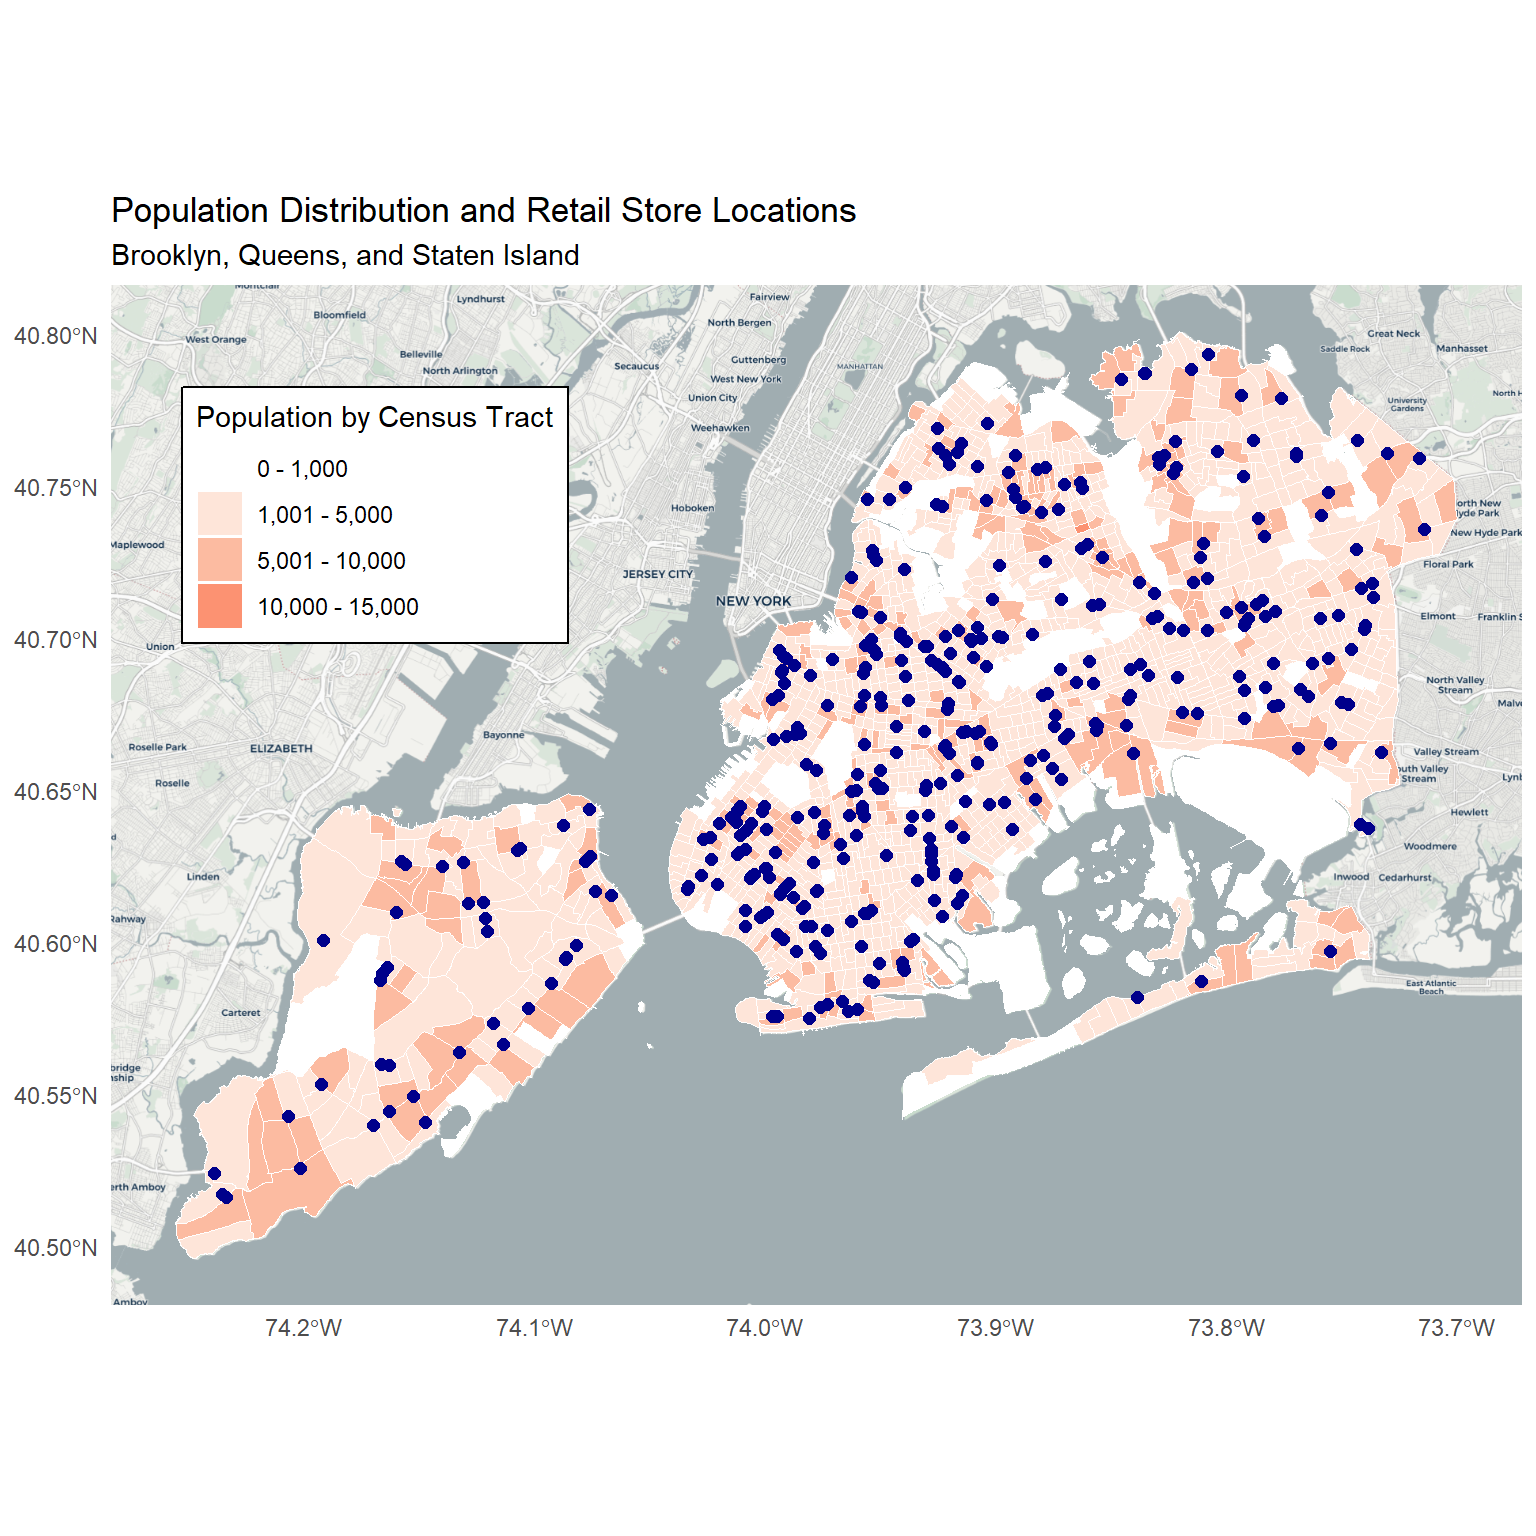
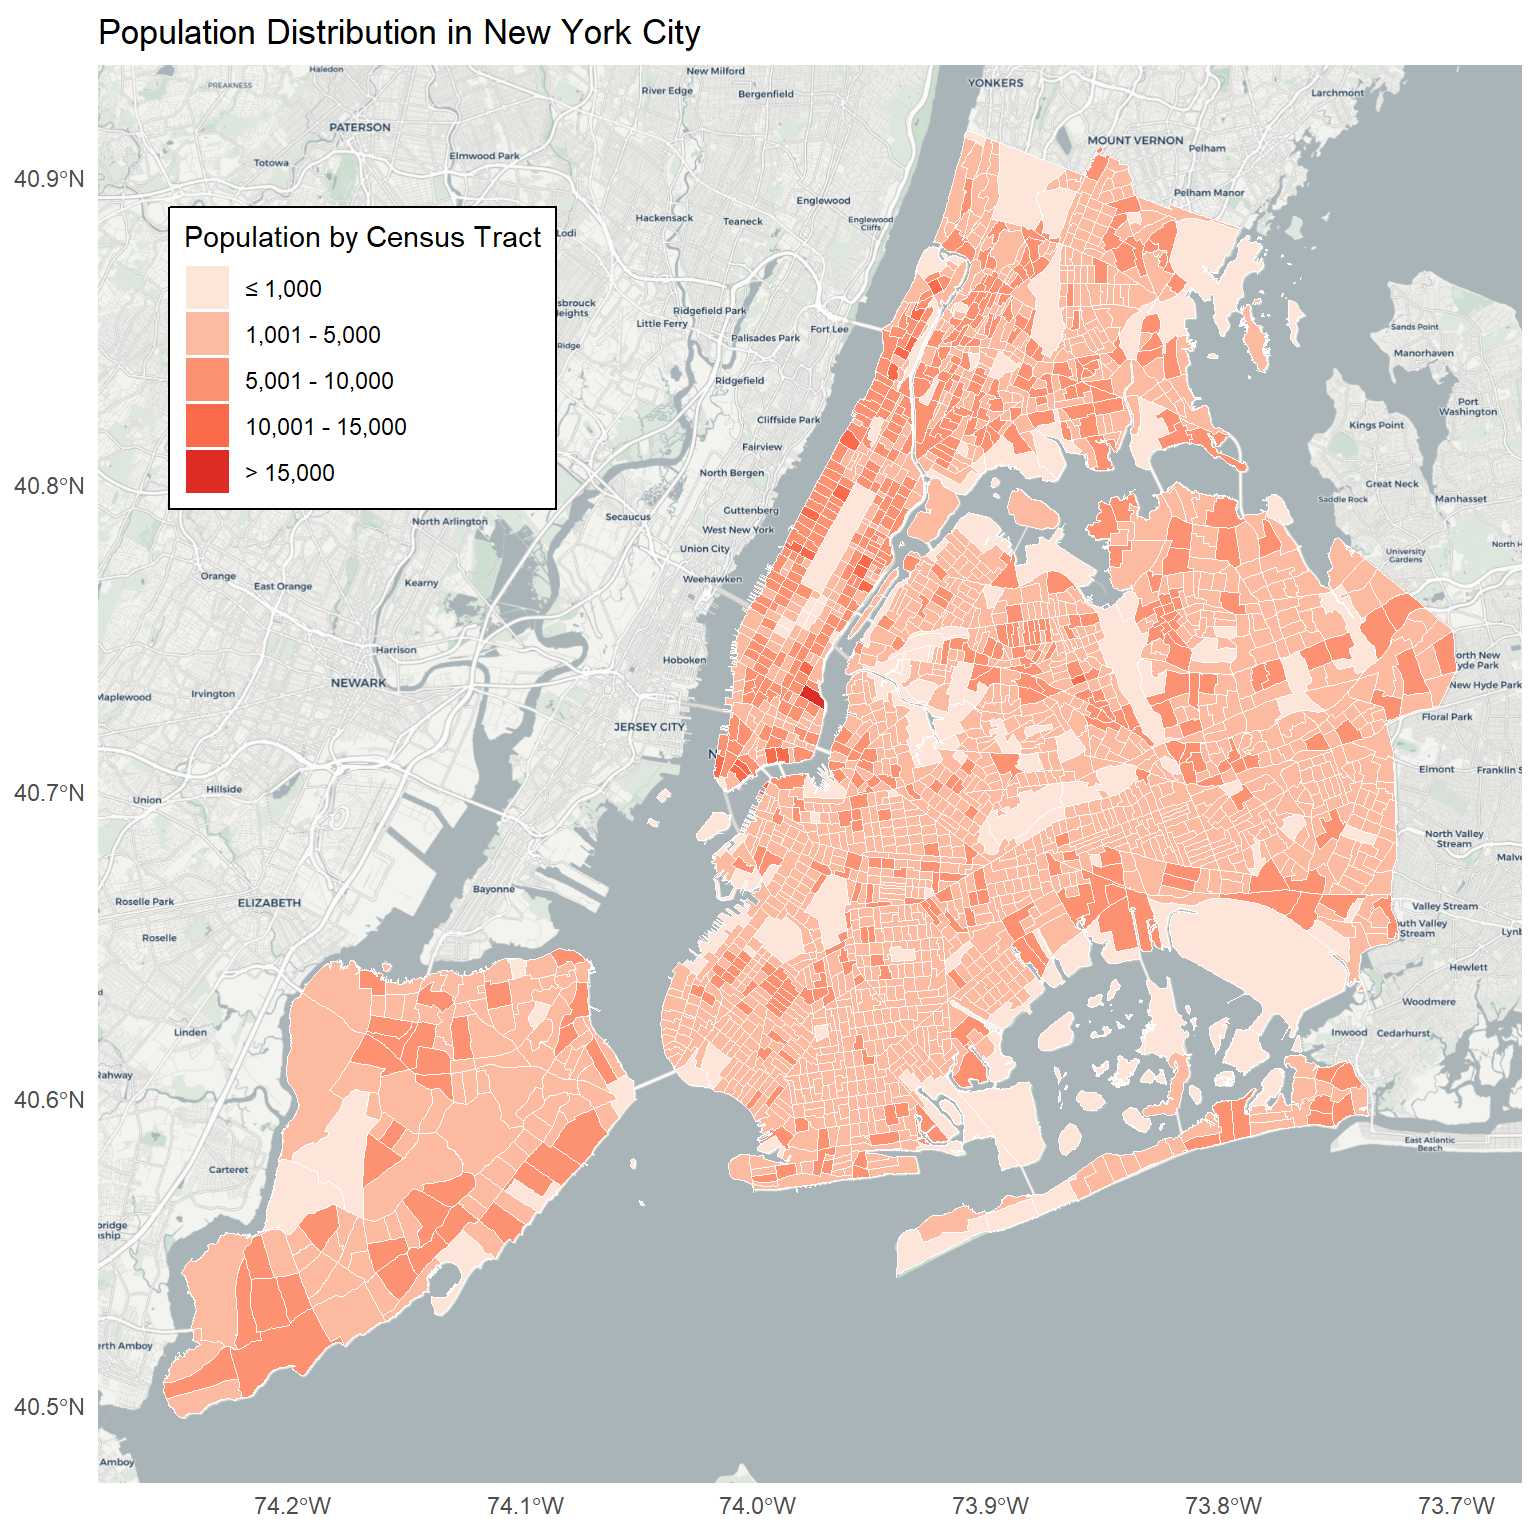
Update the report

diff --git a/report.html b/report.html
@@ -11,9 +11,9 @@
 
 
 
-<title>Report</title>
+<title>Project Report</title>
 
-<script src="site_libs/header-attrs-2.29/header-attrs.js"></script>
+<script src="site_libs/header-attrs-2.28/header-attrs.js"></script>
 <script src="site_libs/jquery-3.6.0/jquery-3.6.0.min.js"></script>
 <meta name="viewport" content="width=device-width, initial-scale=1" />
 <link href="site_libs/bootstrap-3.3.5/css/cosmo.min.css" rel="stylesheet" />
@@ -258,7 +258,7 @@ $(document).ready(function () {
   <a href="report.html">Report</a>
 </li>
 <li>
-  <a href="http://github.com/tl3279/">
+  <a href="https://github.com/tl3279/final.github.io">
     <span class="fa fa-github fa-lg"></span>
      
   </a>
@@ -280,37 +280,11 @@ $(document).ready(function () {
 
 
 
-<h1 class="title toc-ignore">Report</h1>
+<h1 class="title toc-ignore">Project Report</h1>
 
 </div>
 
 
-<pre>
-大纲    
-1. Motivation   
-  1.1 Overview of Project Goals and Motivation    
-2. Related Work   
-3. Initial Questions    
-  3.1 Questions trying to answer    
-  3.2 How did these questions evolve over the course of the project?    
-  3.3 What new questions did you consider in the course of your analysis?   
-4. Data   
-  4.1 Data Sources    
-  4.2 Scraping Method   
-  4.3 Data Cleaning Procedures    
-5. Exploratory Analysis   
-  5.1 Visualizations    
-  5.2 Summaries   
-  5.3 Exploratory Statistical Analysis    
-6. Additional Analysis    
-  6.1 Formal Analysis   
-7. Discussion   
-  7.1 Findings/Expectations/Insights..    
-</pre>
-<pre>
-留言板
-1. 这三个数据集我感觉有很多不太需要的变量要不要精简一下？
-</pre>
 <div id="motivation-and-primary-objectives" class="section level2">
 <h2>Motivation and Primary Objectives</h2>
 <p>Food access is a critical determinant of health outcomes and a driver
@@ -350,9 +324,22 @@ affordable and nutritious food within NYC.</p>
 </div>
 <div id="initial-questions" class="section level2">
 <h2>Initial Questions</h2>
+<p>Our initial questions are:<br />
+- Are there any food deserts in NYC?<br />
+- How does food access affect nutrition and health outcomes?<br />
+- What socioeconomic factors impact food access?</p>
+<p>After conducting exploratory analysis and gaining a better
+understanding of the datasets, we refined our questions as
+follows:<br />
+- Where are food deserts located in NYC, specifically at a more granular
+level?<br />
+- How does the spatial proximity to retail stores influence food access
+and availability for different communities?</p>
 </div>
 <div id="data-sources-and-cleaning" class="section level2">
 <h2>Data Sources and Cleaning</h2>
+<div id="nyc-2020-census-tract-dataset" class="section level3">
+<h3>NYC 2020 Census Tract Dataset</h3>
 <pre class="r"><code>population_data =
   read_excel(&quot;nyc2020_census_blocks.xlsx&quot;) |&gt;
   slice(-c(1:6)) |&gt;
@@ -369,9 +356,22 @@ affordable and nutritious food within NYC.</p>
     geoid = paste0(&quot;36&quot;, fips_county, tract_number)
   ) |&gt;
   group_by(geoid) |&gt;
-  summarize(total_population = sum(Pop1, na.rm = TRUE)) 
-
-nyc_tracts = 
+  summarize(total_population = sum(Pop1, na.rm = TRUE)) </code></pre>
+<p>Exported Shapefile from <a
+href="https://data.cityofnewyork.us/City-Government/2020-Census-Tracts/63ge-mke6/about_data">NYC
+Open Data</a>. This dataset includes the 2020 Census Tracts from the US
+Census for New York City. The boundary files are derived from the US
+Census Bureau’s TIGER data products and have been geographically
+modified to align with the New York City base map. The Shapefile was
+imported using <code>st_read()</code> from the <code>sf</code> package.
+Population data, aggregated at the census tract level, was joined to the
+shapefile using the common <code>geoid</code> identifier. Census tracts
+were classified into population bins based on total population for
+improved visualization.</p>
+</div>
+<div id="nyc-2020-decennial-census-data" class="section level3">
+<h3>NYC 2020 Decennial Census Data</h3>
+<pre class="r"><code>nyc_tracts = 
   st_read(
     &quot;2020 Census Tracts/geo_export_ae979acf-b46a-42af-a79f-874d7b450fc8.shp&quot;,
     quiet = TRUE)|&gt;
@@ -379,13 +379,35 @@ nyc_tracts =
   mutate(
     pop_bins = cut(
       total_population,
-      breaks = c(0, 1000, 5000, 10000, 15000, 200000),
-      labels = c(&quot;0 - 1,000&quot;, &quot;1,001 - 5,000&quot;, &quot;5,001 - 10,000&quot;, &quot;10,000 - 15,000&quot;, &quot;15,001 - 20,000&quot;),
+      breaks = c(0, 1001, 5001, 10001, 15001, Inf),
+      labels = c(&quot;≤ 1,000&quot;, &quot;1,001 - 5,000&quot;, &quot;5,001 - 10,000&quot;, &quot;10,001 - 15,000&quot;, &quot;&gt; 15,000&quot;),
       include.lowest = TRUE
     )
-  )
-
-retail_stores = 
+  ) |&gt;
+  select(boroname, total_population, geometry, pop_bins)</code></pre>
+<p>Downloaded the Excel file from <a
+href="https://www.nyc.gov/site/planning/planning-level/nyc-population/2020-census.page">2020
+Census - DCP</a> provided by the NYC Department of City Planning. This
+dataset includes basic demographic and housing characteristics, such as
+total population, race/ethnicity, age, housing tenure, and household
+composition for NYC’s census blocks.The dataset was imported using
+<code>read_excel()</code> and the first six rows, which contained
+summary population information for the five counties and NYC as a whole,
+were removed. A new variable, <code>geoid</code>, was created by
+combining borough codes and tract numbers to ensure compatibility with
+the NYC census tract dataset. Total population was aggregated across
+unique <code>geoid</code> values to calculate the total population for
+each census tract. The cleaned population dataset was then merged with
+the NYC census tract dataset using the <code>geoid</code> variable. We
+retained only the variables essential for our analysis:
+<strong><code>boroname</code></strong>,
+<strong><code>total_population</code></strong>,
+<strong><code>geometry</code></strong>, and
+<strong><code>pop_bins</code></strong>.</p>
+</div>
+<div id="retail-store-dataset" class="section level3">
+<h3>Retail Store Dataset</h3>
+<pre class="r"><code>retail_stores = 
   read_csv(&quot;Retail_Food_Stores.csv&quot;) |&gt;
   janitor::clean_names() |&gt;
   filter(county %in% c(&quot;BRONX&quot;, &quot;KINGS&quot;, &quot;NEW YORK&quot;, &quot;RICHMOND&quot;, &quot;QUEENS&quot;),
@@ -410,52 +432,8 @@ retail_stores =
       square_footage &lt;= 9000 ~ &quot;Medium&quot;,
       square_footage &gt; 9000 ~ &quot;Large&quot;
     )
-  )
-
-buffered_stores = 
-  retail_stores |&gt;
-  st_transform(crs = 2263) |&gt;
-  mutate(
-    buffer_radius = case_when(
-      category == &quot;Small&quot; ~ 5280*0.15,
-      category == &quot;Medium&quot; ~ 5280*0.25,
-      category == &quot;Large&quot; ~ 5280*0.35
-    )
-  ) |&gt;
-  mutate(geometry = st_buffer(geometry, dist = buffer_radius))</code></pre>
-<div id="nyc-2020-census-tract-dataset" class="section level3">
-<h3>NYC 2020 Census Tract Dataset</h3>
-<p>Exported Shapefile from <a
-href="https://data.cityofnewyork.us/City-Government/2020-Census-Tracts/63ge-mke6/about_data">NYC
-Open Data</a>. This dataset includes the 2020 Census Tracts from the US
-Census for New York City. The boundary files are derived from the US
-Census Bureau’s TIGER data products and have been geographically
-modified to align with the New York City base map. The Shapefile was
-imported using <code>st_read()</code> from the <code>sf</code> package.
-Population data, aggregated at the census tract level, was joined to the
-shapefile using the common <code>geoid</code> identifier. Census tracts
-were classified into population bins based on total population for
-improved visualization.</p>
-</div>
-<div id="nyc-2020-decennial-census-data" class="section level3">
-<h3>NYC 2020 Decennial Census Data</h3>
-<p>Downloaded the Excel file from <a
-href="https://www.nyc.gov/site/planning/planning-level/nyc-population/2020-census.page">2020
-Census - DCP</a> provided by the NYC Department of City Planning. This
-dataset includes basic demographic and housing characteristics, such as
-total population, race/ethnicity, age, housing tenure, and household
-composition for NYC’s census blocks.The dataset was imported using
-<code>read_excel()</code> and the first six rows, which contained
-summary population information for the five counties and NYC as a whole,
-were removed. A new variable, <code>geoid</code>, was created by
-combining borough codes and tract numbers to ensure compatibility with
-the NYC census tract dataset. Total population was aggregated across
-unique <code>geoid</code> values to calculate the total population for
-each census tract. The cleaned population dataset was then merged with
-the NYC census tract dataset using the <code>geoid</code> variable.</p>
-</div>
-<div id="retail-store-dataset" class="section level3">
-<h3>Retail Store Dataset</h3>
+  )|&gt;
+  select(county, geometry, category)</code></pre>
 <p>Exported CSV file from <a
 href="https://data.ny.gov/Economic-Development/Retail-Food-Stores/9a8c-vfzj/about_data">Open
 Data NY</a>. This dataset provides a listing of all retail food stores
@@ -474,7 +452,22 @@ groups:<br />
 - <strong>Small</strong>: Less than 5,000 sqft<br />
 - <strong>Medium</strong>: Between 5,000 and 9,000 sqft<br />
 - <strong>Large</strong>: Greater than 9,000 sqft<br />
-To visualize the coverage of retail stores by adding coverage zones
+We retained only the variables essential for our analysis:
+<strong><code>county</code></strong>,
+<strong><code>geometry</code></strong>, and
+<strong><code>category</code></strong>.</p>
+<pre class="r"><code>covered_df = 
+  retail_stores |&gt;
+  st_transform(crs = 2263) |&gt;
+  mutate(
+    coverage_radius = case_when(
+      category == &quot;Small&quot; ~ 5280*0.15,
+      category == &quot;Medium&quot; ~ 5280*0.25,
+      category == &quot;Large&quot; ~ 5280*0.35
+    )
+  ) |&gt;
+  mutate(geometry = st_buffer(geometry, dist = coverage_radius))</code></pre>
+<p>To visualize the coverage of retail stores by adding coverage zones
 based on store size. The geometry was transform the CRS to
 <code>EPSG:2263</code> for accurate distance-based calculations.Coverage
 zones were created around store locations using
@@ -502,7 +495,7 @@ Staten Island.</strong></p>
   annotation_map_tile(zoom = 12, type = &quot;cartolight&quot;) +  
   geom_sf(aes(fill = pop_bins), color = &quot;white&quot;, lwd = 0.2) +
   scale_fill_manual(
-    values = c(&quot;white&quot;, &quot;#fee5d9&quot;, &quot;#fcbba1&quot;, &quot;#fc9272&quot;, &quot;#fb6a4a&quot;, &quot;#de2d26&quot;),
+    values = c(&quot;#fee5d9&quot;, &quot;#fcbba1&quot;, &quot;#fc9272&quot;, &quot;#fb6a4a&quot;, &quot;#de2d26&quot;),
     name = &quot;Population by Census Tract&quot;
   ) +
   labs(title = &quot;Population Distribution in New York City&quot;) +
@@ -512,7 +505,7 @@ Staten Island.</strong></p>
     legend.justification = c(0, 1), 
     legend.background = element_rect(fill = &quot;white&quot;, color = &quot;black&quot;)
   )</code></pre>
-<p><img src="report_files/figure-html/unnamed-chunk-2-1.png" width="768" /></p>
+<p><img src="report_files/figure-html/unnamed-chunk-5-1.png" width="768" /></p>
 <p>The map visualizes the population distribution across New York City
 by census tract, derived from the 2020 Census data. The tracts are
 color-coded to reflect population density, categorized into five
@@ -530,7 +523,7 @@ relatively sparse populations compared to urban centers.</p>
 <div id="manhattan-and-bronx" class="section level3">
 <h3>Manhattan and Bronx</h3>
 <div id="retail-store-dirtributions" class="section level4">
-<h4>Retail Store Dirtributions</h4>
+<h4>Retail store dirtributions</h4>
 <pre class="r"><code>nyc_tracts |&gt;
   filter(boroname %in% c(&quot;Manhattan&quot;, &quot;Bronx&quot;)) |&gt;
   ggplot() +
@@ -539,7 +532,7 @@ relatively sparse populations compared to urban centers.</p>
   geom_sf(data = retail_stores |&gt;
             filter(county %in% c(&quot;Manhattan&quot;, &quot;Bronx&quot;)), color = &quot;darkblue&quot;, size = 2) +
   scale_fill_manual(
-    values = c(&quot;white&quot;, &quot;#fee5d9&quot;, &quot;#fcbba1&quot;, &quot;#fc9272&quot;, &quot;#fb6a4a&quot;, &quot;#de2d26&quot;),
+    values = c(&quot;#fee5d9&quot;, &quot;#fcbba1&quot;, &quot;#fc9272&quot;, &quot;#fb6a4a&quot;, &quot;#de2d26&quot;),
     name = &quot;Population by Census Tract&quot;
   ) +
   labs(
@@ -550,9 +543,11 @@ relatively sparse populations compared to urban centers.</p>
   theme(
     legend.position = c(0.05, 0.9), 
     legend.justification = c(0, 1), 
-    legend.background = element_rect(fill = &quot;white&quot;, color = &quot;black&quot;)
+    legend.background = element_rect(fill = &quot;white&quot;, color = &quot;black&quot;),
+    plot.title = element_text(size=17.5, hjust=0.5),
+    plot.subtitle = element_text(hjust=.5)
   )</code></pre>
-<p><img src="report_files/figure-html/unnamed-chunk-3-1.png" width="768" /></p>
+<p><img src="report_files/figure-html/unnamed-chunk-6-1.png" width="768" /></p>
 <p>Retail stores are heavily concentrated in central and lower
 Manhattan, which aligns with areas of higher population density and
 commercial activity. This clustering likely reflects the demand for
@@ -578,7 +573,7 @@ required to improve access to nutritious food.</p>
     color = &quot;white&quot;, lwd = 0.2
   ) +
   geom_sf(
-    data = buffered_stores |&gt; filter(county %in% c(&quot;Manhattan&quot;, &quot;Bronx&quot;)),
+    data = covered_df |&gt; filter(county %in% c(&quot;Manhattan&quot;, &quot;Bronx&quot;)),
     aes(fill = category),
     alpha = 0.4,
     color = NA
@@ -592,9 +587,9 @@ required to improve access to nutritious food.</p>
   scale_fill_manual(
     values = c(
       &quot;Small&quot; = &quot;yellow&quot;, &quot;Medium&quot; = &quot;green&quot;, &quot;Large&quot; = &quot;blue&quot;,
-      &quot;0 - 1,000&quot; = &quot;#fee5d9&quot;, &quot;1,001 - 5,000&quot; = &quot;#fcbba1&quot;,
+      &quot;≤ 1,000&quot; = &quot;#fee5d9&quot;, &quot;1,001 - 5,000&quot; = &quot;#fcbba1&quot;,
       &quot;5,001 - 10,000&quot; = &quot;#fc9272&quot;, &quot;10,000 - 15,000&quot; = &quot;#fb6a4a&quot;,
-      &quot;15,001 - 20,000&quot; = &quot;#de2d26&quot;
+      &quot;&gt; 15,000&quot; = &quot;#de2d26&quot;
     ),
     breaks = c(&quot;Small&quot;, &quot;Medium&quot;, &quot;Large&quot;), 
     name = &quot;Store Category&quot;
@@ -603,14 +598,19 @@ required to improve access to nutritious food.</p>
     values = c(&quot;Small&quot; = &quot;yellow&quot;, &quot;Medium&quot; = &quot;green&quot;, &quot;Large&quot; = &quot;blue&quot;),
     guide = &quot;none&quot;
   ) +
-  labs(title = &quot;Population and Retail Store Coverage in Manhattan and Bronx&quot;) +
+  labs(
+    title = &quot;Population Distribution and Retail Store Coverage&quot;,
+    subtitle = &quot;Manhattan and Bronx&quot;
+  ) +
   theme_minimal() +
   theme(
     legend.position = c(0.05, 0.9), 
     legend.justification = c(0, 1), 
-    legend.background = element_rect(fill = &quot;white&quot;, color = &quot;black&quot;)
+    legend.background = element_rect(fill = &quot;white&quot;, color = &quot;black&quot;),
+    plot.title = element_text(size=17.5, hjust=0.5),
+    plot.subtitle = element_text(hjust=.5)
   )</code></pre>
-<p><img src="report_files/figure-html/unnamed-chunk-4-1.png" width="768" /></p>
+<p><img src="report_files/figure-html/unnamed-chunk-7-1.png" width="768" /></p>
 <p>This graph shows the retail store distribution and their respective
 coverage zones in Manhattan and the Bronx. The store categories are
 classified by square footage:<br />
@@ -640,7 +640,7 @@ potential food desert areas with limited access to retail stores.</p>
   geom_sf(data = retail_stores |&gt;
             filter(county %in% c(&quot;Brooklyn&quot;, &quot;Queens&quot;, &quot;Staten Island&quot;)), color = &quot;darkblue&quot;, size = 2) +
   scale_fill_manual(
-    values = c(&quot;white&quot;, &quot;#fee5d9&quot;, &quot;#fcbba1&quot;, &quot;#fc9272&quot;, &quot;#fb6a4a&quot;, &quot;#de2d26&quot;),
+    values = c(&quot;#fee5d9&quot;, &quot;#fcbba1&quot;, &quot;#fc9272&quot;, &quot;#fb6a4a&quot;, &quot;#de2d26&quot;),
     name = &quot;Population by Census Tract&quot;
   ) +
   labs(
@@ -653,7 +653,7 @@ potential food desert areas with limited access to retail stores.</p>
     legend.justification = c(0, 1),
     legend.background = element_rect(fill = &quot;white&quot;, color = &quot;black&quot;)
   )</code></pre>
-<p><img src="report_files/figure-html/unnamed-chunk-5-1.png" width="768" /></p>
+<p><img src="report_files/figure-html/unnamed-chunk-8-1.png" width="768" /></p>
 <p>Brooklyn has a high density of retail stores, particularly in areas
 of moderate to high population density. This reflects a pattern of urban
 development and commercial activity aligning with residential areas.
@@ -678,7 +678,7 @@ that provide fresh and nutritious food options.</p>
     color = &quot;white&quot;, lwd = 0.2
   ) +
   geom_sf(
-    data = buffered_stores |&gt; 
+    data = covered_df |&gt; 
       filter(county %in% c(&quot;Brooklyn&quot;, &quot;Queens&quot;, &quot;Staten Island&quot;)),
     aes(fill = category),
     alpha = 0.4,
@@ -705,14 +705,19 @@ that provide fresh and nutritious food options.</p>
     values = c(&quot;Small&quot; = &quot;yellow&quot;, &quot;Medium&quot; = &quot;green&quot;, &quot;Large&quot; = &quot;blue&quot;),
     guide = &quot;none&quot;
   ) +
-  labs(title = &quot;Population and Retail Store Coverage in Brooklyn, Queens, and Staten Island&quot;) +
+  labs(
+    title = &quot;Population and Retail Store Coverage&quot;,
+    subtitle = &quot;Brooklyn, Queens, and Staten Island&quot;
+  ) +
   theme_minimal() +
   theme(
     legend.position = c(0.05, 0.9),
     legend.justification = c(0, 1),
-    legend.background = element_rect(fill = &quot;white&quot;, color = &quot;black&quot;)
+    legend.background = element_rect(fill = &quot;white&quot;, color = &quot;black&quot;),
+    plot.title = element_text(size=17.5, hjust=0.5),
+    plot.subtitle = element_text(hjust=.5)
   )</code></pre>
-<p><img src="report_files/figure-html/unnamed-chunk-6-1.png" width="768" /></p>
+<p><img src="report_files/figure-html/unnamed-chunk-9-1.png" width="768" /></p>
 <p>Same as above, the retail stores are categorized into Small, Medium,
 and Large, represented by yellow, green, and blue buffer zones,
 respectively.</p>
@@ -732,6 +737,9 @@ access to retail stores offering fresh and nutritious food.</p>
 <div id="discussion" class="section level2">
 <h2>Discussion</h2>
 <div id="food-desert" class="section level3">
+<h3>Food Desert</h3>
+</div>
+<div id="food-desert-1" class="section level3">
 <h3>Food Desert</h3>
 <p>Based on the visualizations and observations, we identify significant
 disparities in the availability of retail food stores across New York
@@ -763,7 +771,7 @@ of the Bronx, eastern Queens, and southern Staten Island).<br />
 - Limited presence of medium and large retail stores, which are more
 likely to offer fresh and nutritious food options.</p>
 <p>Efforts could include incentivizing grocery stores to open in
-underserved areas, enhancing transportation options to food hubs, and
+under-served areas, enhancing transportation options to food hubs, and
 supporting local farmers’ markets to improve accessibility to nutritious
 food in food deserts. These actions could help bridge the food access
 gap and promote equitable food security across New York City.</p>
